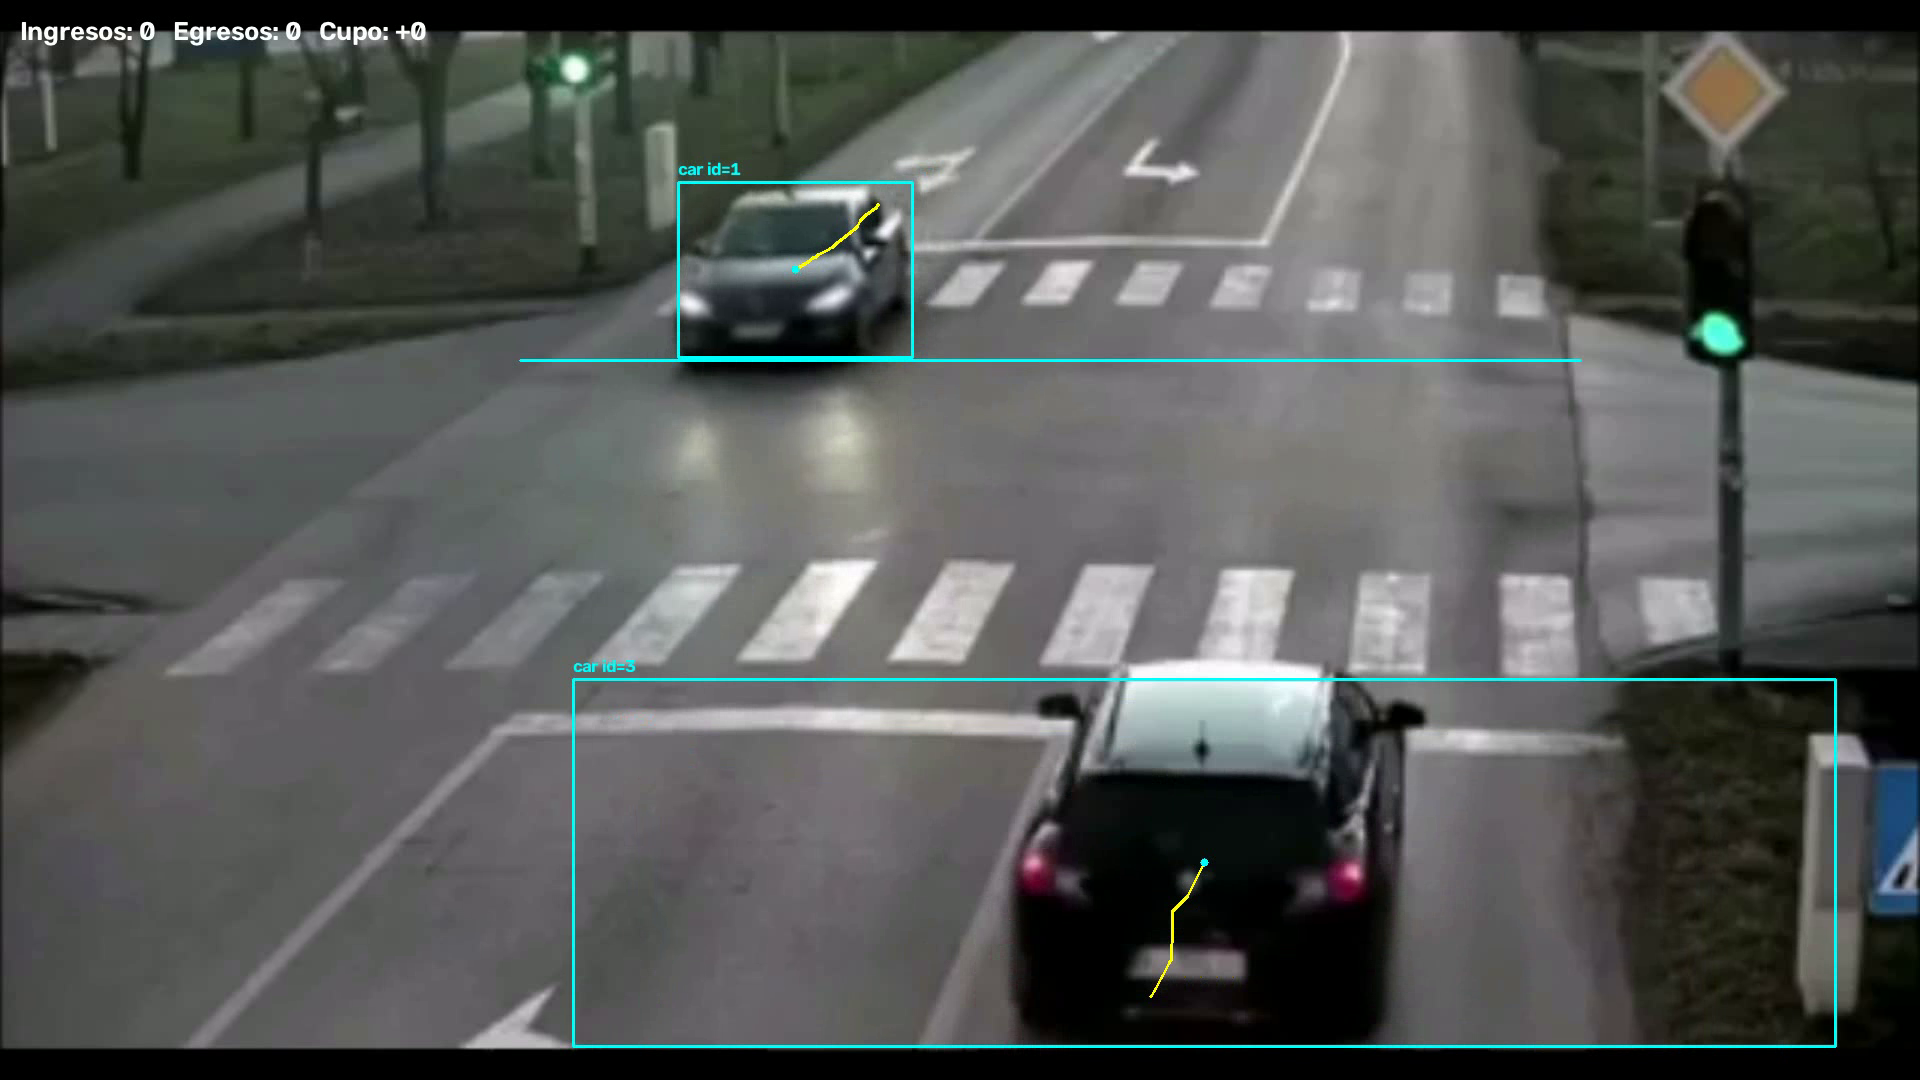
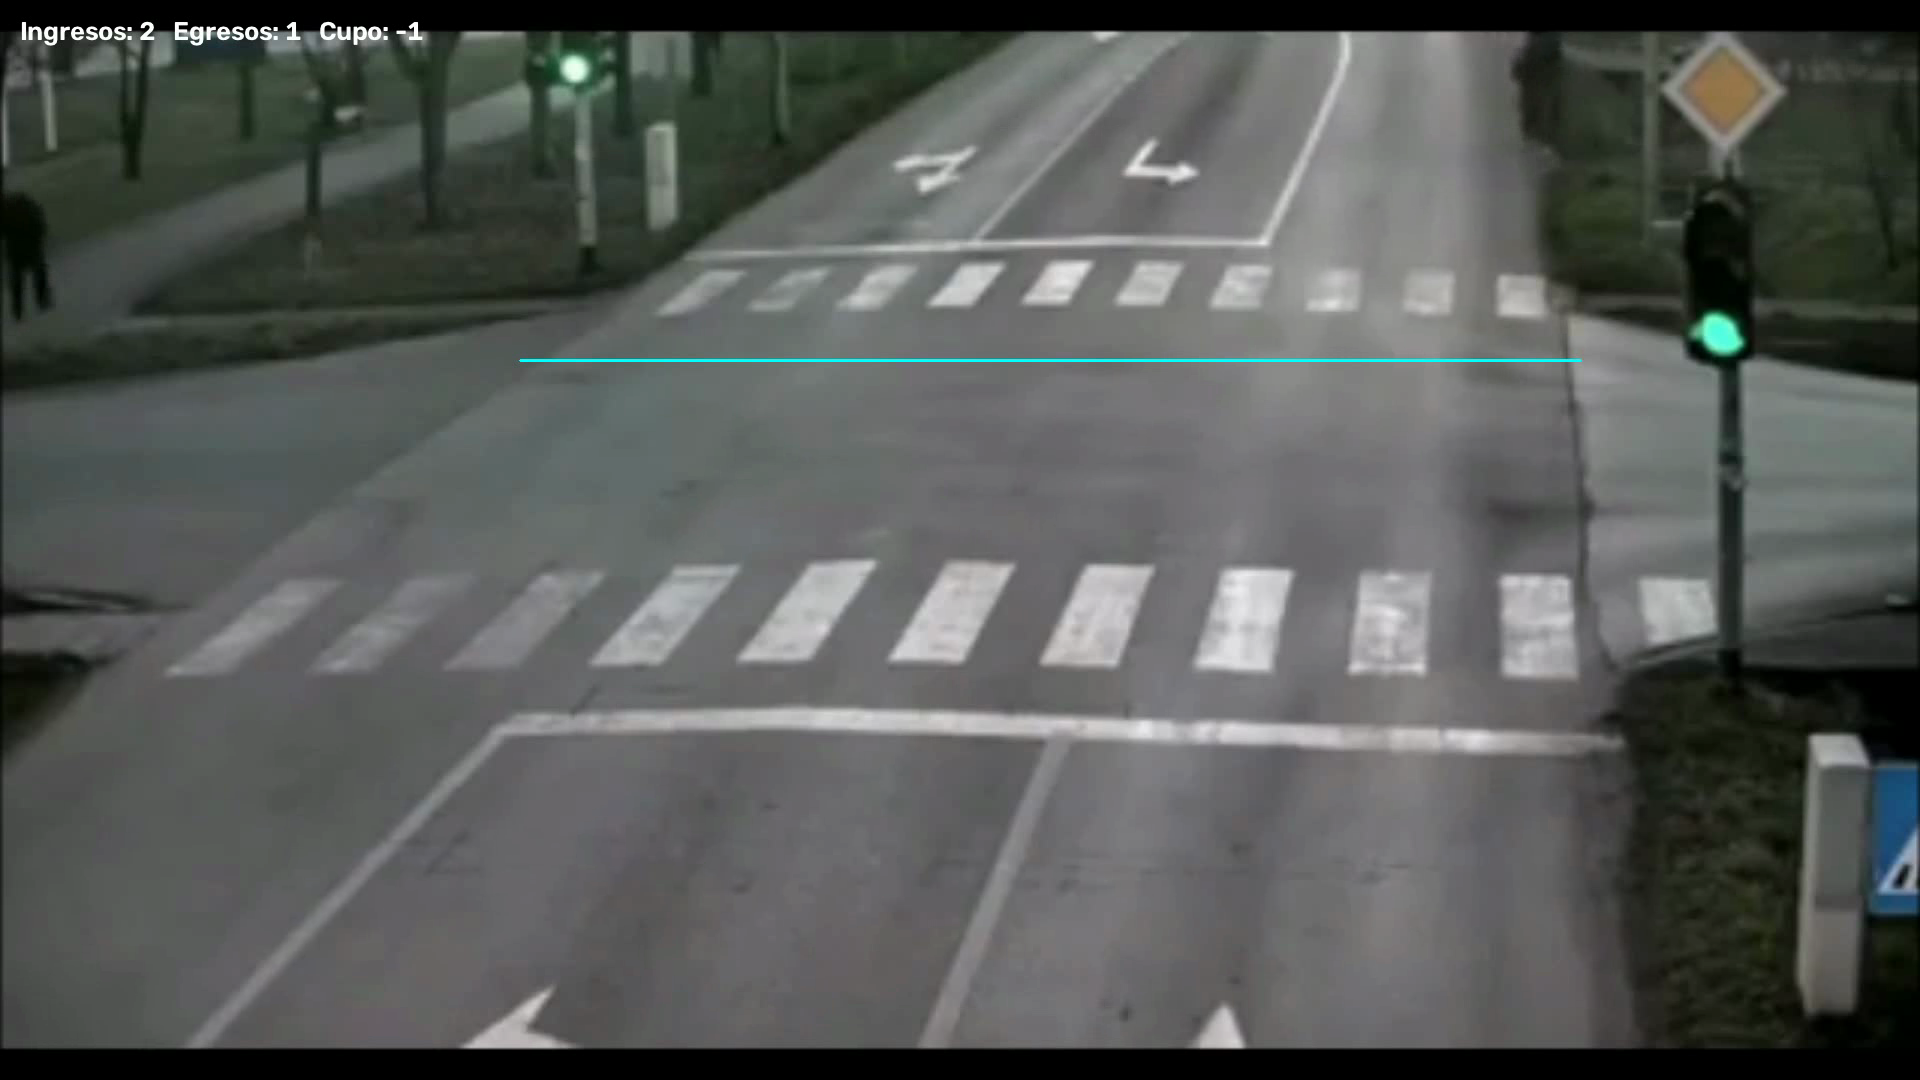
Añadidos cambios para mostrar video demo

diff --git a/src/estacionamiento/spaces.py b/src/estacionamiento/spaces.py
@@ -11,6 +11,11 @@ import cv2
 import yaml
 from ultralytics import YOLO
 
+from estacionamiento.display import close_windows, show_frame
+
+# Segundos que se ve cada foto cuando la fuente es una carpeta, en la ventana y en el video.
+IMAGE_SECONDS = 3.0
+
 EMPTY_COLOR = (0, 180, 0)
 OCCUPIED_COLOR = (0, 0, 255)
 WHITE = (255, 255, 255)
@@ -22,6 +27,7 @@ class SpaceSummary:
     empty: int
     occupied: int
     output: str
+    display_s: float = 0.0
 
 
 def load_spaces_config(path: str | Path) -> dict:
@@ -48,8 +54,13 @@ def process_spaces(
     config: dict,
     frame_stride: int = 1,
     max_images: int = 0,
+    show: bool = False,
 ) -> SpaceSummary:
-    """Anota una imagen, un video o una carpeta. El conteo del resumen es el del último frame."""
+    """Anota una imagen, un video o una carpeta. El conteo del resumen es el del último frame.
+
+    Con ``show`` se ve cada frame anotado. Las fotos de una carpeta quedan ``IMAGE_SECONDS``
+    en pantalla, el mismo ritmo del video de salida.
+    """
     source = Path(source)
     output_path = Path(output_path)
     output_path.parent.mkdir(parents=True, exist_ok=True)
@@ -62,6 +73,7 @@ def process_spaces(
     writer = None
     last_counts = {"empty": 0, "occupied": 0}
     saved = 0
+    display_s = 0.0
     for frame in frames:
         annotated, last_counts = annotate_frame(model, names, frame, config)
         if writer is None:
@@ -69,18 +81,26 @@ def process_spaces(
             writer = cv2.VideoWriter(
                 str(output_path),
                 cv2.VideoWriter_fourcc(*"mp4v"),
-                2.0 if source.is_dir() else 25.0,
+                1.0 / IMAGE_SECONDS if source.is_dir() else 25.0,
                 (width, height),
             )
         writer.write(annotated)
         saved += 1
+        if show:
+            keep_going, shown = show_frame("Plazas", annotated, int(IMAGE_SECONDS * 1000) if source.is_dir() else 1)
+            display_s += shown
+            if not keep_going:
+                break
     if writer is not None:
         writer.release()
+    if show:
+        close_windows()
     return SpaceSummary(
         frames=saved,
         empty=last_counts["empty"],
         occupied=last_counts["occupied"],
         output=str(output_path),
+        display_s=round(display_s, 3),
     )
 
 
@@ -151,6 +171,7 @@ def main() -> None:
     parser.add_argument("--config", default="configs/spaces.yaml")
     parser.add_argument("--max-images", type=int, default=0, help="0 procesa todas. Útil para carpetas grandes.")
     parser.add_argument("--summary", default="")
+    parser.add_argument("--show", action="store_true", help="Muestra cada frame anotado mientras se procesa. q corta.")
     args = parser.parse_args()
 
     summary = process_spaces(
@@ -158,6 +179,7 @@ def main() -> None:
         args.output,
         load_spaces_config(args.config),
         max_images=args.max_images,
+        show=args.show,
     )
     print(json.dumps(asdict(summary), indent=2))
     if args.summary:

diff --git a/src/estacionamiento/access.py b/src/estacionamiento/access.py
@@ -15,6 +15,7 @@ import cv2
 import yaml
 from ultralytics import YOLO
 
+from estacionamiento.display import close_windows, show_frame
 from estacionamiento.geometry import EGRESO, INGRESO, LineCrossingCounter, box_center
 
 CYAN = (255, 255, 0)
@@ -31,6 +32,7 @@ class AccessSummary:
     delta_cupo: int
     frames: int
     output: str
+    display_s: float = 0.0
 
 
 def _line_for_frame(line, width: int, height: int):
@@ -61,8 +63,9 @@ def process_access_video(
     video_path: str | Path,
     output_path: str | Path,
     config: dict,
+    show: bool = False,
 ) -> AccessSummary:
-    """Procesa un video de acceso y escribe la versión anotada."""
+    """Procesa un video de acceso y escribe la versión anotada. Con ``show`` lo muestra en una ventana."""
     video_path = Path(video_path)
     output_path = Path(output_path)
     output_path.parent.mkdir(parents=True, exist_ok=True)
@@ -96,6 +99,7 @@ def process_access_video(
     kinds: dict[int, str] = {}
     target_classes = set(config["target_classes"])
     frames = 0
+    display_s = 0.0
 
     while True:
         ok, frame = capture.read()
@@ -133,9 +137,16 @@ def process_access_video(
 
         _draw_hud(frame, counter)
         writer.write(frame)
+        if show:
+            keep_going, shown = show_frame("Acceso", frame)
+            display_s += shown
+            if not keep_going:
+                break
 
     capture.release()
     writer.release()
+    if show:
+        close_windows()
     delta = counter.egresos - counter.ingresos
     return AccessSummary(
         ingresos=counter.ingresos,
@@ -143,6 +154,7 @@ def process_access_video(
         delta_cupo=delta,
         frames=frames,
         output=str(output_path),
+        display_s=round(display_s, 3),
     )
 
 
@@ -182,9 +194,10 @@ def main() -> None:
     parser.add_argument("--output", default="outputs/acceso.mp4", help="Video anotado de salida.")
     parser.add_argument("--config", default="configs/access.yaml")
     parser.add_argument("--summary", default="", help="JSON opcional con los conteos.")
+    parser.add_argument("--show", action="store_true", help="Muestra el video anotado mientras se procesa.")
     args = parser.parse_args()
 
-    summary = process_access_video(args.video, args.output, load_access_config(args.config))
+    summary = process_access_video(args.video, args.output, load_access_config(args.config), show=args.show)
     print(json.dumps(asdict(summary), indent=2))
     if args.summary:
         Path(args.summary).write_text(json.dumps(asdict(summary), indent=2), encoding="utf-8")

diff --git a/src/estacionamiento/demo.py b/src/estacionamiento/demo.py
@@ -23,6 +23,7 @@ def run_demo(
     access_config: str | Path = "configs/access.yaml",
     spaces_config: str | Path = "configs/spaces.yaml",
     max_images: int = 30,
+    show: bool = False,
 ) -> dict:
     output_path = Path(output_path)
     output_path.parent.mkdir(parents=True, exist_ok=True)
@@ -30,16 +31,21 @@ def run_demo(
     spaces_video_out = output_path.with_name("plazas.mp4")
 
     started = time.perf_counter()
-    access_summary = process_access_video(access_video, access_video_out, load_access_config(access_config))
-    access_ms = (time.perf_counter() - started) / max(access_summary.frames, 1) * 1000
+    access_summary = process_access_video(
+        access_video, access_video_out, load_access_config(access_config), show=show
+    )
+    access_s = time.perf_counter() - started - access_summary.display_s
+    access_ms = access_s / max(access_summary.frames, 1) * 1000
     started = time.perf_counter()
     spaces_summary = process_spaces(
         spaces_source,
         spaces_video_out,
         load_spaces_config(spaces_config),
         max_images=max_images,
+        show=show,
     )
-    spaces_ms = (time.perf_counter() - started) / max(spaces_summary.frames, 1) * 1000
+    spaces_s = time.perf_counter() - started - spaces_summary.display_s
+    spaces_ms = spaces_s / max(spaces_summary.frames, 1) * 1000
     write_figures(access_video_out, spaces_video_out)
     concatenate_videos(
         [
@@ -123,6 +129,7 @@ def main() -> None:
     parser.add_argument("--access-config", default="configs/access.yaml")
     parser.add_argument("--spaces-config", default="configs/spaces.yaml")
     parser.add_argument("--max-images", type=int, default=30)
+    parser.add_argument("--show", action="store_true", help="Muestra cada cámara mientras se procesa.")
     args = parser.parse_args()
     summary = run_demo(
         args.access_video,
@@ -131,6 +138,7 @@ def main() -> None:
         args.access_config,
         args.spaces_config,
         args.max_images,
+        args.show,
     )
     print(json.dumps(summary, indent=2))
 

diff --git a/src/estacionamiento/display.py b/src/estacionamiento/display.py
@@ -1,0 +1,29 @@
+"""Ventana opcional para ver las detecciones mientras se procesan."""
+
+from __future__ import annotations
+
+import time
+
+import cv2
+
+MAX_WINDOW_WIDTH = 1280
+
+
+def show_frame(window: str, frame, delay_ms: int = 1) -> tuple[bool, float]:
+    """Muestra el frame. Devuelve si hay que seguir y los segundos en pantalla.
+
+    Esos segundos se descuentan de la latencia, que mide solo el procesamiento.
+    """
+    started = time.perf_counter()
+    height, width = frame.shape[:2]
+    if width > MAX_WINDOW_WIDTH:
+        scale = MAX_WINDOW_WIDTH / width
+        frame = cv2.resize(frame, (MAX_WINDOW_WIDTH, int(height * scale)))
+    cv2.imshow(window, frame)
+    keep_going = cv2.waitKey(max(1, delay_ms)) & 0xFF != ord("q")
+    return keep_going, time.perf_counter() - started
+
+
+def close_windows() -> None:
+    cv2.destroyAllWindows()
+    cv2.waitKey(1)
